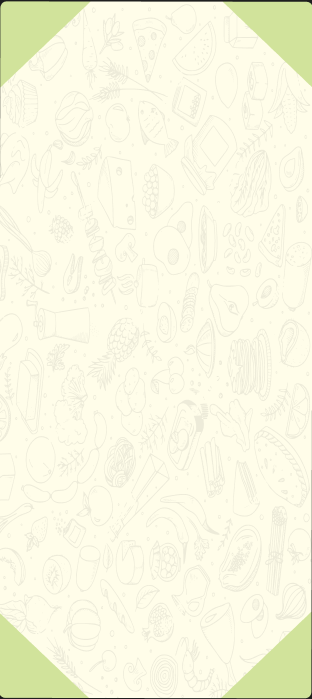
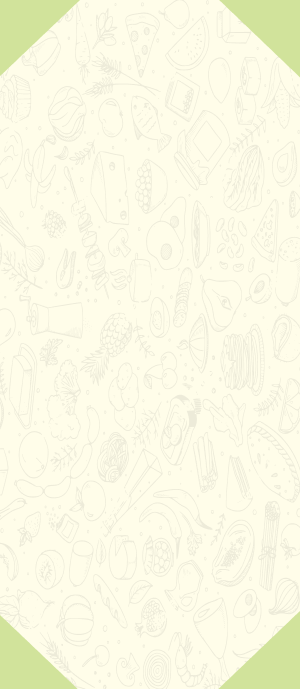
finished food card, and date cards

diff --git a/index.html b/index.html
@@ -125,24 +125,30 @@
 <!--     <div id="springhero"></div> -->
     <div class="menu-container">
             <div class="menu">
-                <h1 class="menuCard" style="text-align:center;">TUESDAY</h1>
-                <h1 id="closed1" class="closed" style="color:#be4d25;background-color:white;"></h1>
-                <h3 id="date1" style="text-align:center;"></h3>
-                <h1 class="menuSectionTitle">ENTREE</h1> 
-                <h3 id="entree1" class="menu-items-spaced-over"></h3>
-                <div class="divider"></div>
-                <h1 class="menuSectionTitle">SOUPS</h1> 
-                <h3 id="soup1" class="menu-items-spaced-over"></h3>
-                <div class="divider"></div>
-                <h1 class="menuSectionTitle">SALADS</h1> 
-                <h3 id="salad1" class="menu-items-spaced-over"></h3>
-                <div class="divider"></div>
-                <h1 class="menuSectionTitle">SIDES</h1> 
-                <h3 id="side1" class="menu-items-spaced-over"></h3>
-                <div class="divider"></div> 
-                <h1 class="menuSectionTitle">DESSERTS</h1> 
-                <h3 id="dessert1" class="menu-items-spaced-over"></h3>
-                <div class="divider"></div>
+                <div class="dateCard">
+                    <h1 class="menuTitle" style="text-align:center;">TUESDAY</h1>
+                    <h3 id="date1" class="date"></h3>
+                    <h1 id="closed1" class="closed" style="color:#be4d25;background-color:white;"></h1>
+                </div>
+                <div class="food">
+                    <h1 class="menuSectionTitle">ENTREE</h1> 
+                    <h3 id="entree1" class="menu-items-spaced-over"></h3>
+                    <!-- <div class="divider"></div> -->
+                    <!-- <h1 class="menuSectionTitle">SOUPS</h1> 
+                    <div class="divider"></div>
+                    <h1 class="menuSectionTitle">SALADS</h1>  -->
+                    <div class="sectiondivider"><div class="left circle"></div><div class="right circle"></div></div>
+                    <h1 class="menuSectionTitle">SIDES</h1> 
+                    <h3 id="side1" class="menu-items-spaced-over"></h3>
+                    <div class="fooddivider"></div>
+                    <h3 id="salad1" class="menu-items-spaced-over"></h3>
+                    <div class="fooddivider"></div>
+                    <h3 id="soup1" class="menu-items-spaced-over"></h3>
+                    <div class="sectiondivider"><div class="left circle"></div><div class="right circle"></div></div> 
+                    <h1 class="menuSectionTitle">DESSERTS</h1> 
+                    <h3 id="dessert1" class="menu-items-spaced-over"></h3>
+                    <div class="fooddivider"></div>
+                </div>
             </div>
             <!-- <div class="menu">
                 <h1 class="menuCard" style="text-align:center;">WEDNESDAY</h1>
@@ -165,23 +171,30 @@
                 <div class="divider"></div>
             </div> -->
             <div class="menu">
-                <h1 class="menuCard" style="text-align:center;">THURSDAY</h1>
-                <h1 id="closed3" class="closed" style="color:#be4d25;background-color:white;"></h1>
-                <h3 id="date3" style="text-align:center;"></h3>
-                <h1 class="menuSectionTitle">ENTREE</h1> 
-                <h3 id="entree3" class="menu-items-spaced-over"></h3>
-                <div class="divider"></div>
-                <h1 class="menuSectionTitle">SOUPS</h1> 
-                <h3 id="soup3" class="menu-items-spaced-over"></h3>
-                <div class="divider"></div>
-                <h1 class="menuSectionTitle">SALADS</h1> 
-                <h3 id="salad3" class="menu-items-spaced-over"></h3>
-                <div class="divider"></div>
-                <h1 class="menuSectionTitle">SIDES</h1> 
-                <h3 id="side3" class="menu-items-spaced-over"></h3>
-                <div class="divider"></div>
-                <h1 class="menuSectionTitle">DESSERTS</h1> 
-                <h3 id="dessert3" class="menu-items-spaced-over"></h3>
+                <div class="dateCard">
+                    <h1 class="menuTitle" style="text-align:center;">THURSDAY</h1>
+                    <h3 id="date3" class="date"></h3>
+                    <h1 id="closed3" class="closed" style="color:#be4d25;background-color:white;"></h1>
+                </div>
+                <div class="food">
+                    <h1 class="menuSectionTitle">ENTREE</h1> 
+                    <h3 id="entree3" class="menu-items-spaced-over"></h3>
+                    <!-- <div class="divider"></div> -->
+                    <!-- <h1 class="menuSectionTitle">SOUPS</h1> 
+                    <div class="divider"></div>
+                    <h1 class="menuSectionTitle">SALADS</h1> -->
+                    <div class="sectiondivider"><div class="left circle"></div><div class="right circle"></div></div>
+                    <h1 class="menuSectionTitle">SIDES</h1> 
+                    <h3 id="side3" class="menu-items-spaced-over"></h3>
+                    <div class="fooddivider"></div>
+                    <h3 id="salad3" class="menu-items-spaced-over"></h3>
+                    <div class="fooddivider"></div>
+                    <h3 id="soup3" class="menu-items-spaced-over"></h3>
+                    <div class="sectiondivider"><div class="left circle"></div><div class="right circle"></div></div>
+                    <h1 class="menuSectionTitle">DESSERTS</h1> 
+                    <h3 id="dessert3" class="menu-items-spaced-over"></h3>
+                    <div class="fooddivider"></div>
+                </div>
                 <div class="divider"></div>
             </div>
     </div>

diff --git a/uploadMenu.html b/uploadMenu.html
@@ -167,8 +167,8 @@
                         <form class="upload-form">
                             <input id="dateINPUT1" type="text" placeholder="Tuesday - Date (JAN 1)" style="background-color:silver">
                             <input id="entreeINPUT1" type="text" placeholder="Tuesday - Entree" style="background-color:silver">
-                            <input id="soupINPUT1" type="text" placeholder="Tuesday - Soups" style="background-color:silver">
-                            <input id="saladINPUT1" type="text" placeholder="Tuesday - Salads" style="background-color:silver">
+                            <!-- <input id="soupINPUT1" type="text" placeholder="Tuesday - Soups" style="background-color:silver">
+                            <input id="saladINPUT1" type="text" placeholder="Tuesday - Salads" style="background-color:silver"> -->
                             <input id="sideINPUT1" type="text" placeholder="Tuesday - Sides" style="background-color:silver">
                             <input id="dessertINPUT1" type="text" placeholder="Tuesday - Desserts" style="background-color:silver">
                             <label class="checkbox-label">
@@ -195,8 +195,8 @@
                         <form class="upload-form">
                             <input id="dateINPUT3" type="text" placeholder="Thursday - Date (JAN 1)" style="background-color:silver">
                             <input id="entreeINPUT3" type="text" placeholder="Thursday - Entree" style="background-color:silver">
-                            <input id="soupINPUT3" type="text" placeholder="Thursday - Soups" style="background-color:silver">
-                            <input id="saladINPUT3" type="text" placeholder="Thursday - Salads" style="background-color:silver">
+                            <!-- <input id="soupINPUT3" type="text" placeholder="Thursday - Soups" style="background-color:silver">
+                            <input id="saladINPUT3" type="text" placeholder="Thursday - Salads" style="background-color:silver"> -->
                             <input id="sideINPUT3" type="text" placeholder="Thursday - Sides" style="background-color:silver">
                             <input id="dessertINPUT3" type="text" placeholder="Thursday - Desserts" style="background-color:silver">
                             <label class="checkbox-label">

diff --git a/style.css b/style.css
@@ -142,25 +142,34 @@
     margin-bottom: 3em;
   }
   .menu {
-    border: 1px solid #ccc;
-    box-shadow: 2px 2px 4px rgba(0, 0, 0, 0.1);
+    /* border: 1px solid #ccc; */
+    /* box-shadow: 2px 2px 4px rgba(0, 0, 0, 0.1); */
     padding: 20px;
     flex: 1;
     width: 33%;
     color: white;
     border-radius: 1.25rem;
-    background-color: #707f42;
+    /* background-color: #707f42; */
     margin: 3em;
     text-align: left;
   }
-  .divider {
-    height: 0.05px;
-    color: white;
-    /* width: 300px; */
+  .sectiondivider {
+    justify-self: center;
+    height: 2px;
+    background-color: #99AA65;
+    width: 300px;
   }
   #dateTXT{
     padding: 0;
     margin: 0;
+  }
+  .dateCard{
+    background-color: #FFFDE9;
+    border: 6px solid #707F43;
+    border-radius: 11px;
+  }
+  .date {
+    text-align:center;
   }
   /* For checkbox */
   .checkbox-label {
@@ -835,27 +844,66 @@
 }
 
 
-
-.menuCard {
+.food {
+  justify-content: center;
+  justify-self:center;
+  text-align: center;
+  background-image: url(content/NewFoodCardBackground.png);
+  background-repeat: no-repeat;
+  background-size:cover;
+  background-position: center;
+  border-radius: 8px;
+  width:375px;
+  height: 900px;
+  padding-top: 5px;
+}
+.menuTitle {
   color: #335879;
   font-size: 50px;
   -webkit-text-stroke: .5px #F3F1DF;
   padding: 0;
   margin: 0;
 }
+.circle {
+  width: 10px;
+  height: 10px;
+  background-color: #99AA65;
+  border-radius: 50px;
+  align-self: center;
+}
+.left {
+  justify-self: flex-start;
+  position: relative;
+  bottom: 4px;
+  right: 5px; 
+}
+.right {
+  justify-self: flex-end;
+  position: relative;
+  bottom: 14px;
+  left: 5px;
+}
+.fooddivider {
+  width: 25px;
+  height: 5px;
+  background-image: url(content/Food-Dash.png);
+  background-size: cover;
+  justify-self: center;
+}
 .menuSectionTitle {
   /* color:#335879; */
-  color:#F3F1DF;
+  color:#5578BC;
   /* -webkit-text-stroke: .5px #F3F1DF; */
-  -webkit-text-stroke: 2.5px #335879;
+  -webkit-text-stroke: 2.5px #5578BC;
 }
 .closed{
   font-size: 40px;
   text-align: center;
 }
 .menu-items-spaced-over {
-  margin-left: 2.5em;
-  color: white;
+  /* margin-left: 2.5em; */
+  justify-self: center;
+  color: #132E5E;
   padding:0;
 }
 
